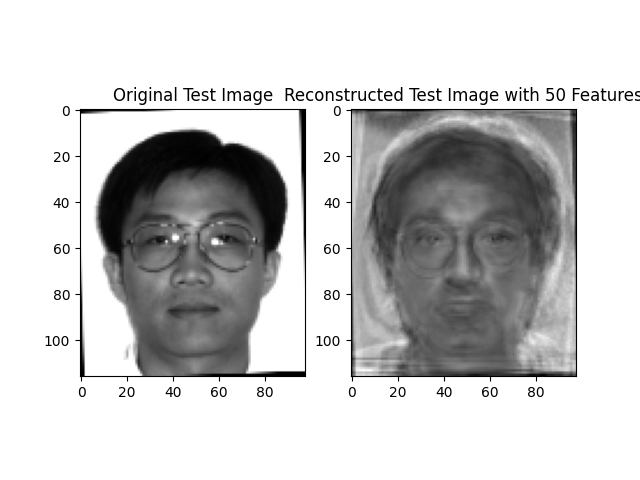
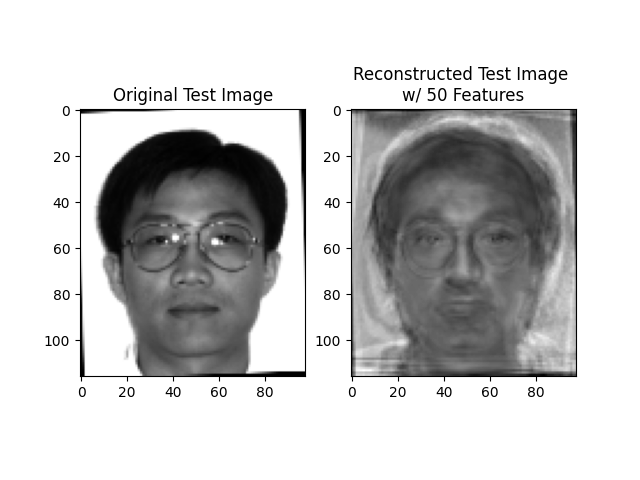
we done i think :skull:

Changed region(s): [[0.4375, 0.125, 1.0, 0.2188]]

diff --git a/project3.py b/project3.py
@@ -221,9 +221,30 @@ plt.imshow(img_test_matrix[:, sample_img_index_test].reshape(img_height, img_wid
 plt.title('Original Test Image')
 plt.subplot(1, 2, 2)
 plt.imshow(reconstructed_img_test_single.reshape(img_height, img_width), cmap='gray')
-plt.title('Reconstructed Test Image with 50 Features')
+plt.title('Reconstructed Test Image \nw/ 50 Features')
 plt.savefig('reconstructed_test.png')
-# plt.show
+# plt.show()
 
 
 # 6 TODO: Repeat test w/ rotated image
+# DONE
+rotated_img = io.imread('subject15rotated.jpeg').flatten()
+# print(np.shape(rotated_img))
+
+principal_components_rotated = np.transpose(U50) @ rotated_img
+# print(np.shape(principal_components_rotated))
+
+reconstructed_img_rotated = U50 @ principal_components_rotated
+error_rotated = np.linalg.norm(rotated_img - reconstructed_img_rotated) ** 2
+avg_approx_errors_rotated = np.mean(error_rotated)
+print('The average approximation error for the rotated image with 50 features is ' + str(np.rint(avg_approx_errors_rotated)) + '\n')
+
+plt.figure()
+plt.subplot(1, 2, 1)
+plt.imshow(rotated_img.reshape(img_height, img_width), cmap='gray')
+plt.title('Original Rotated Image')
+plt.subplot(1, 2, 2)
+plt.imshow(reconstructed_img_rotated.reshape(img_height, img_width), cmap='gray')
+plt.title('Reconstructed Rotated Image \nw/ 50 Features')
+plt.savefig('reconstructed_rotated.png')
+# plt.show()
